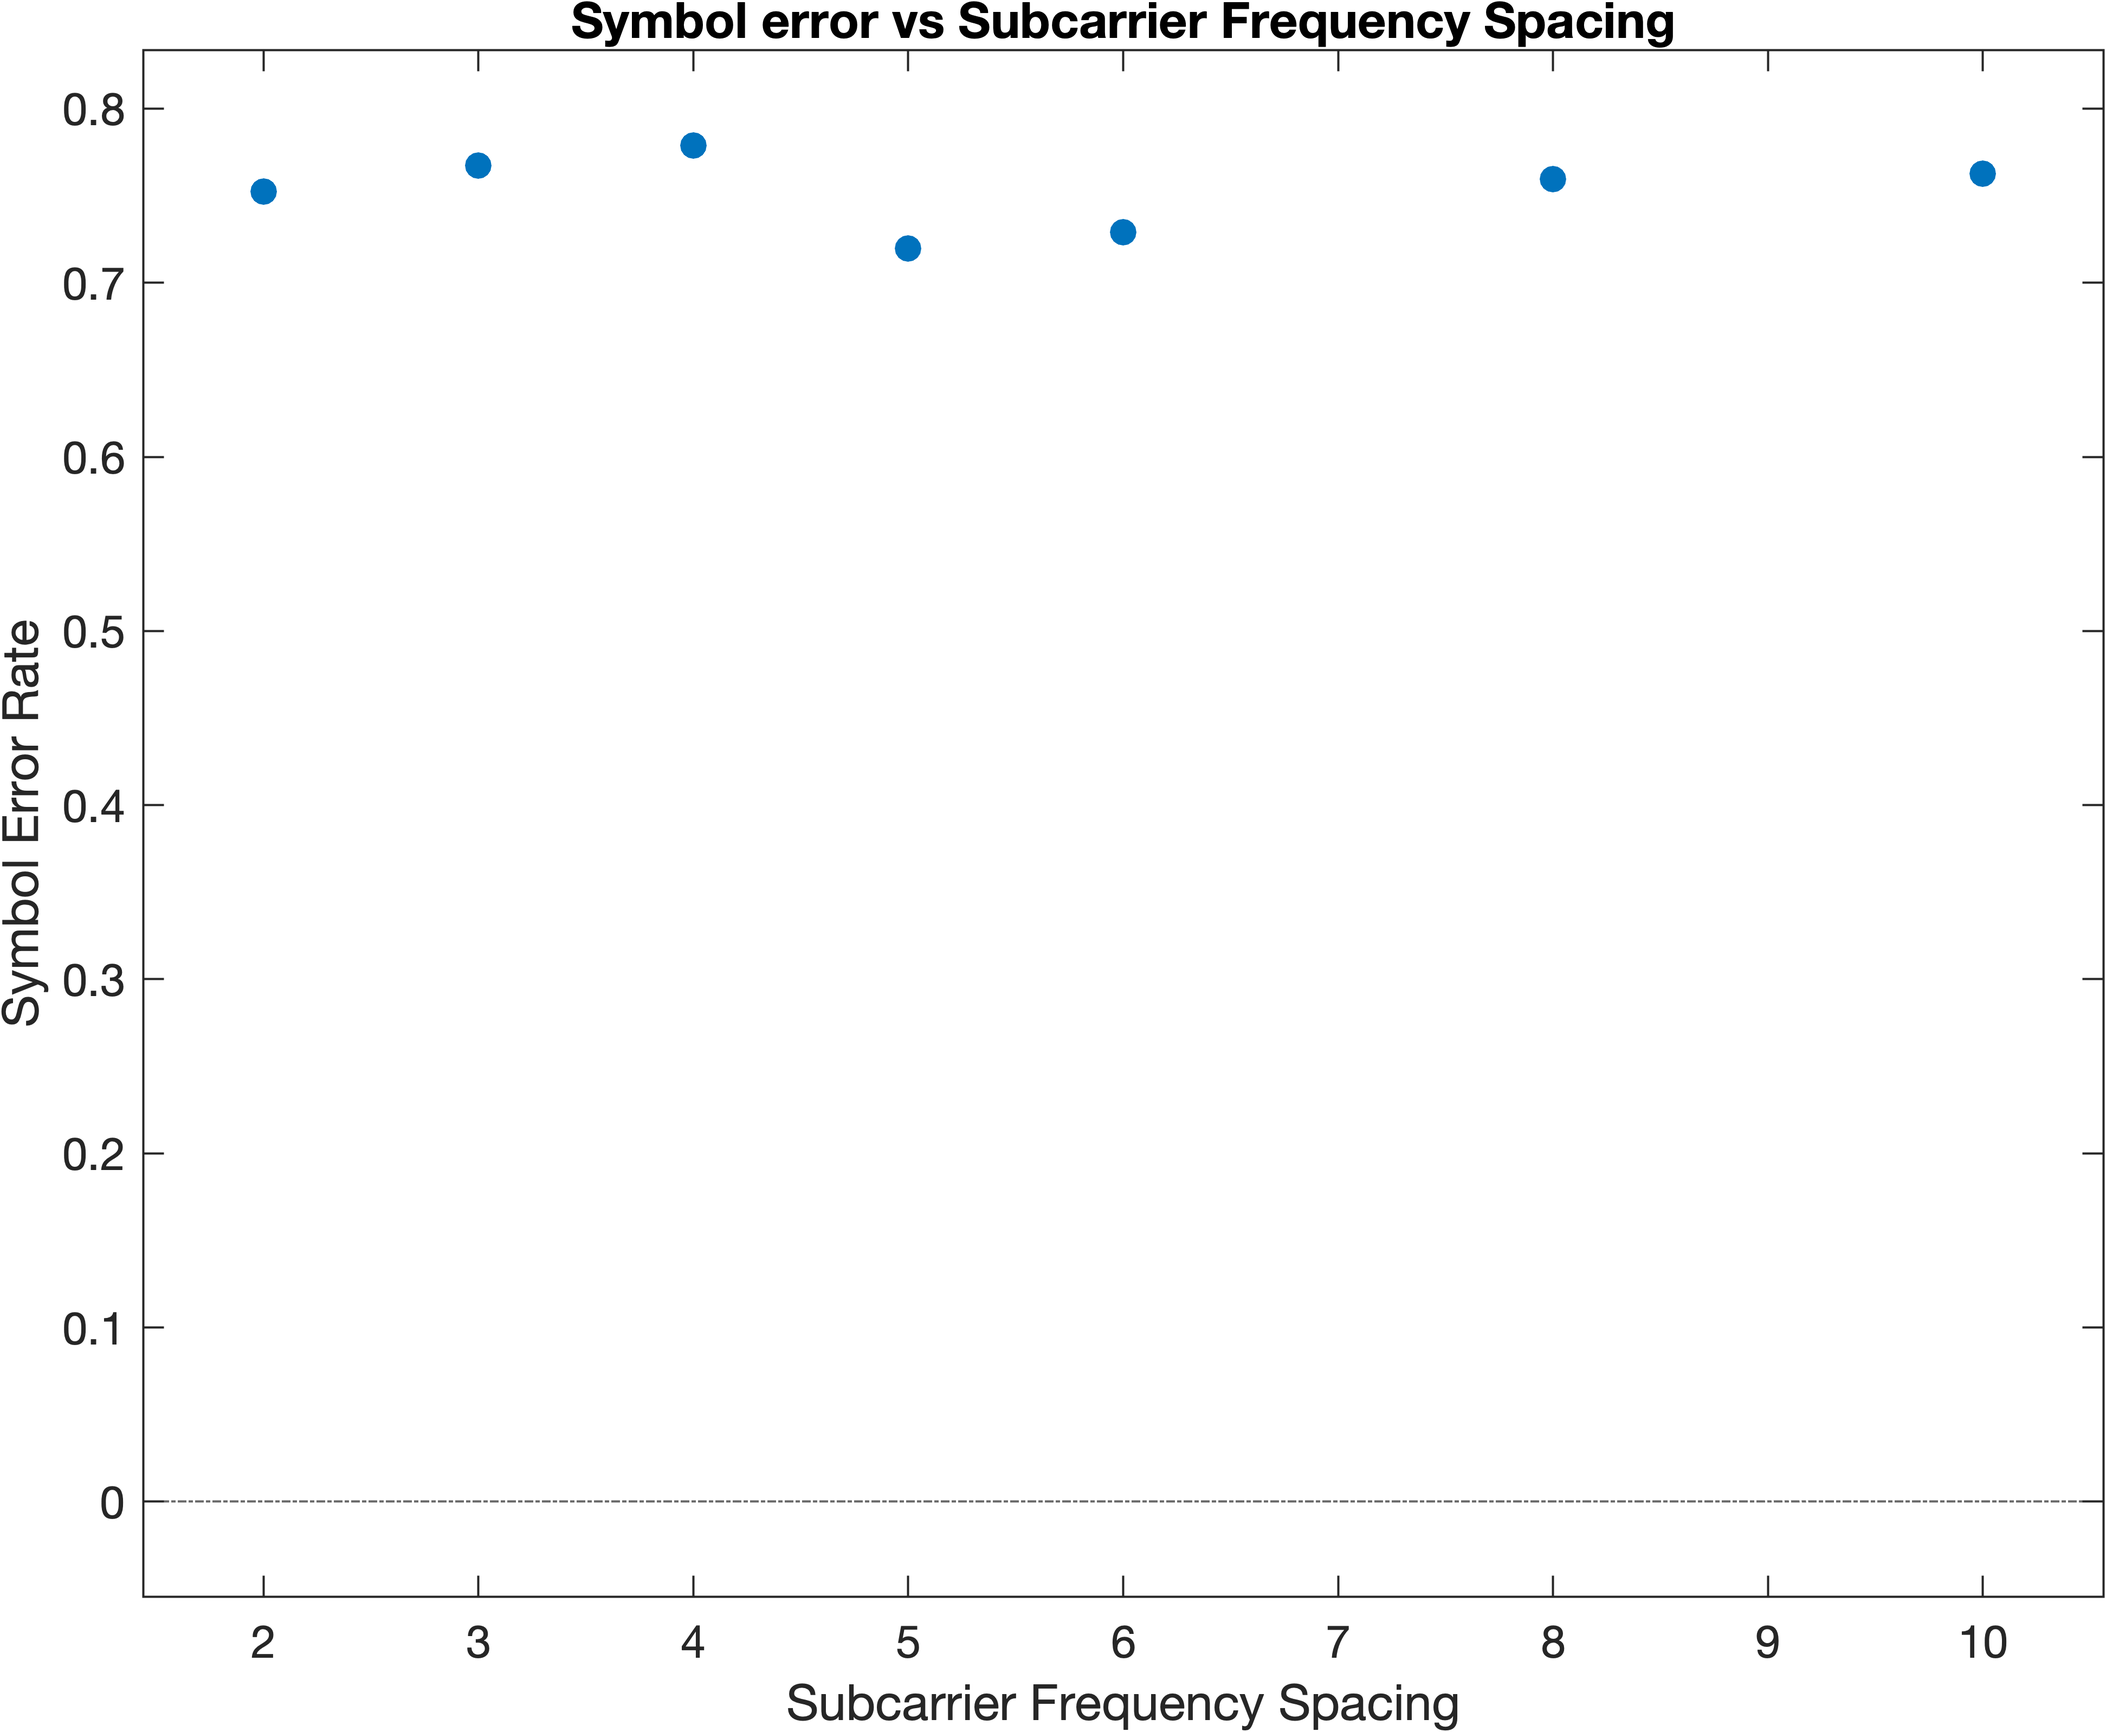
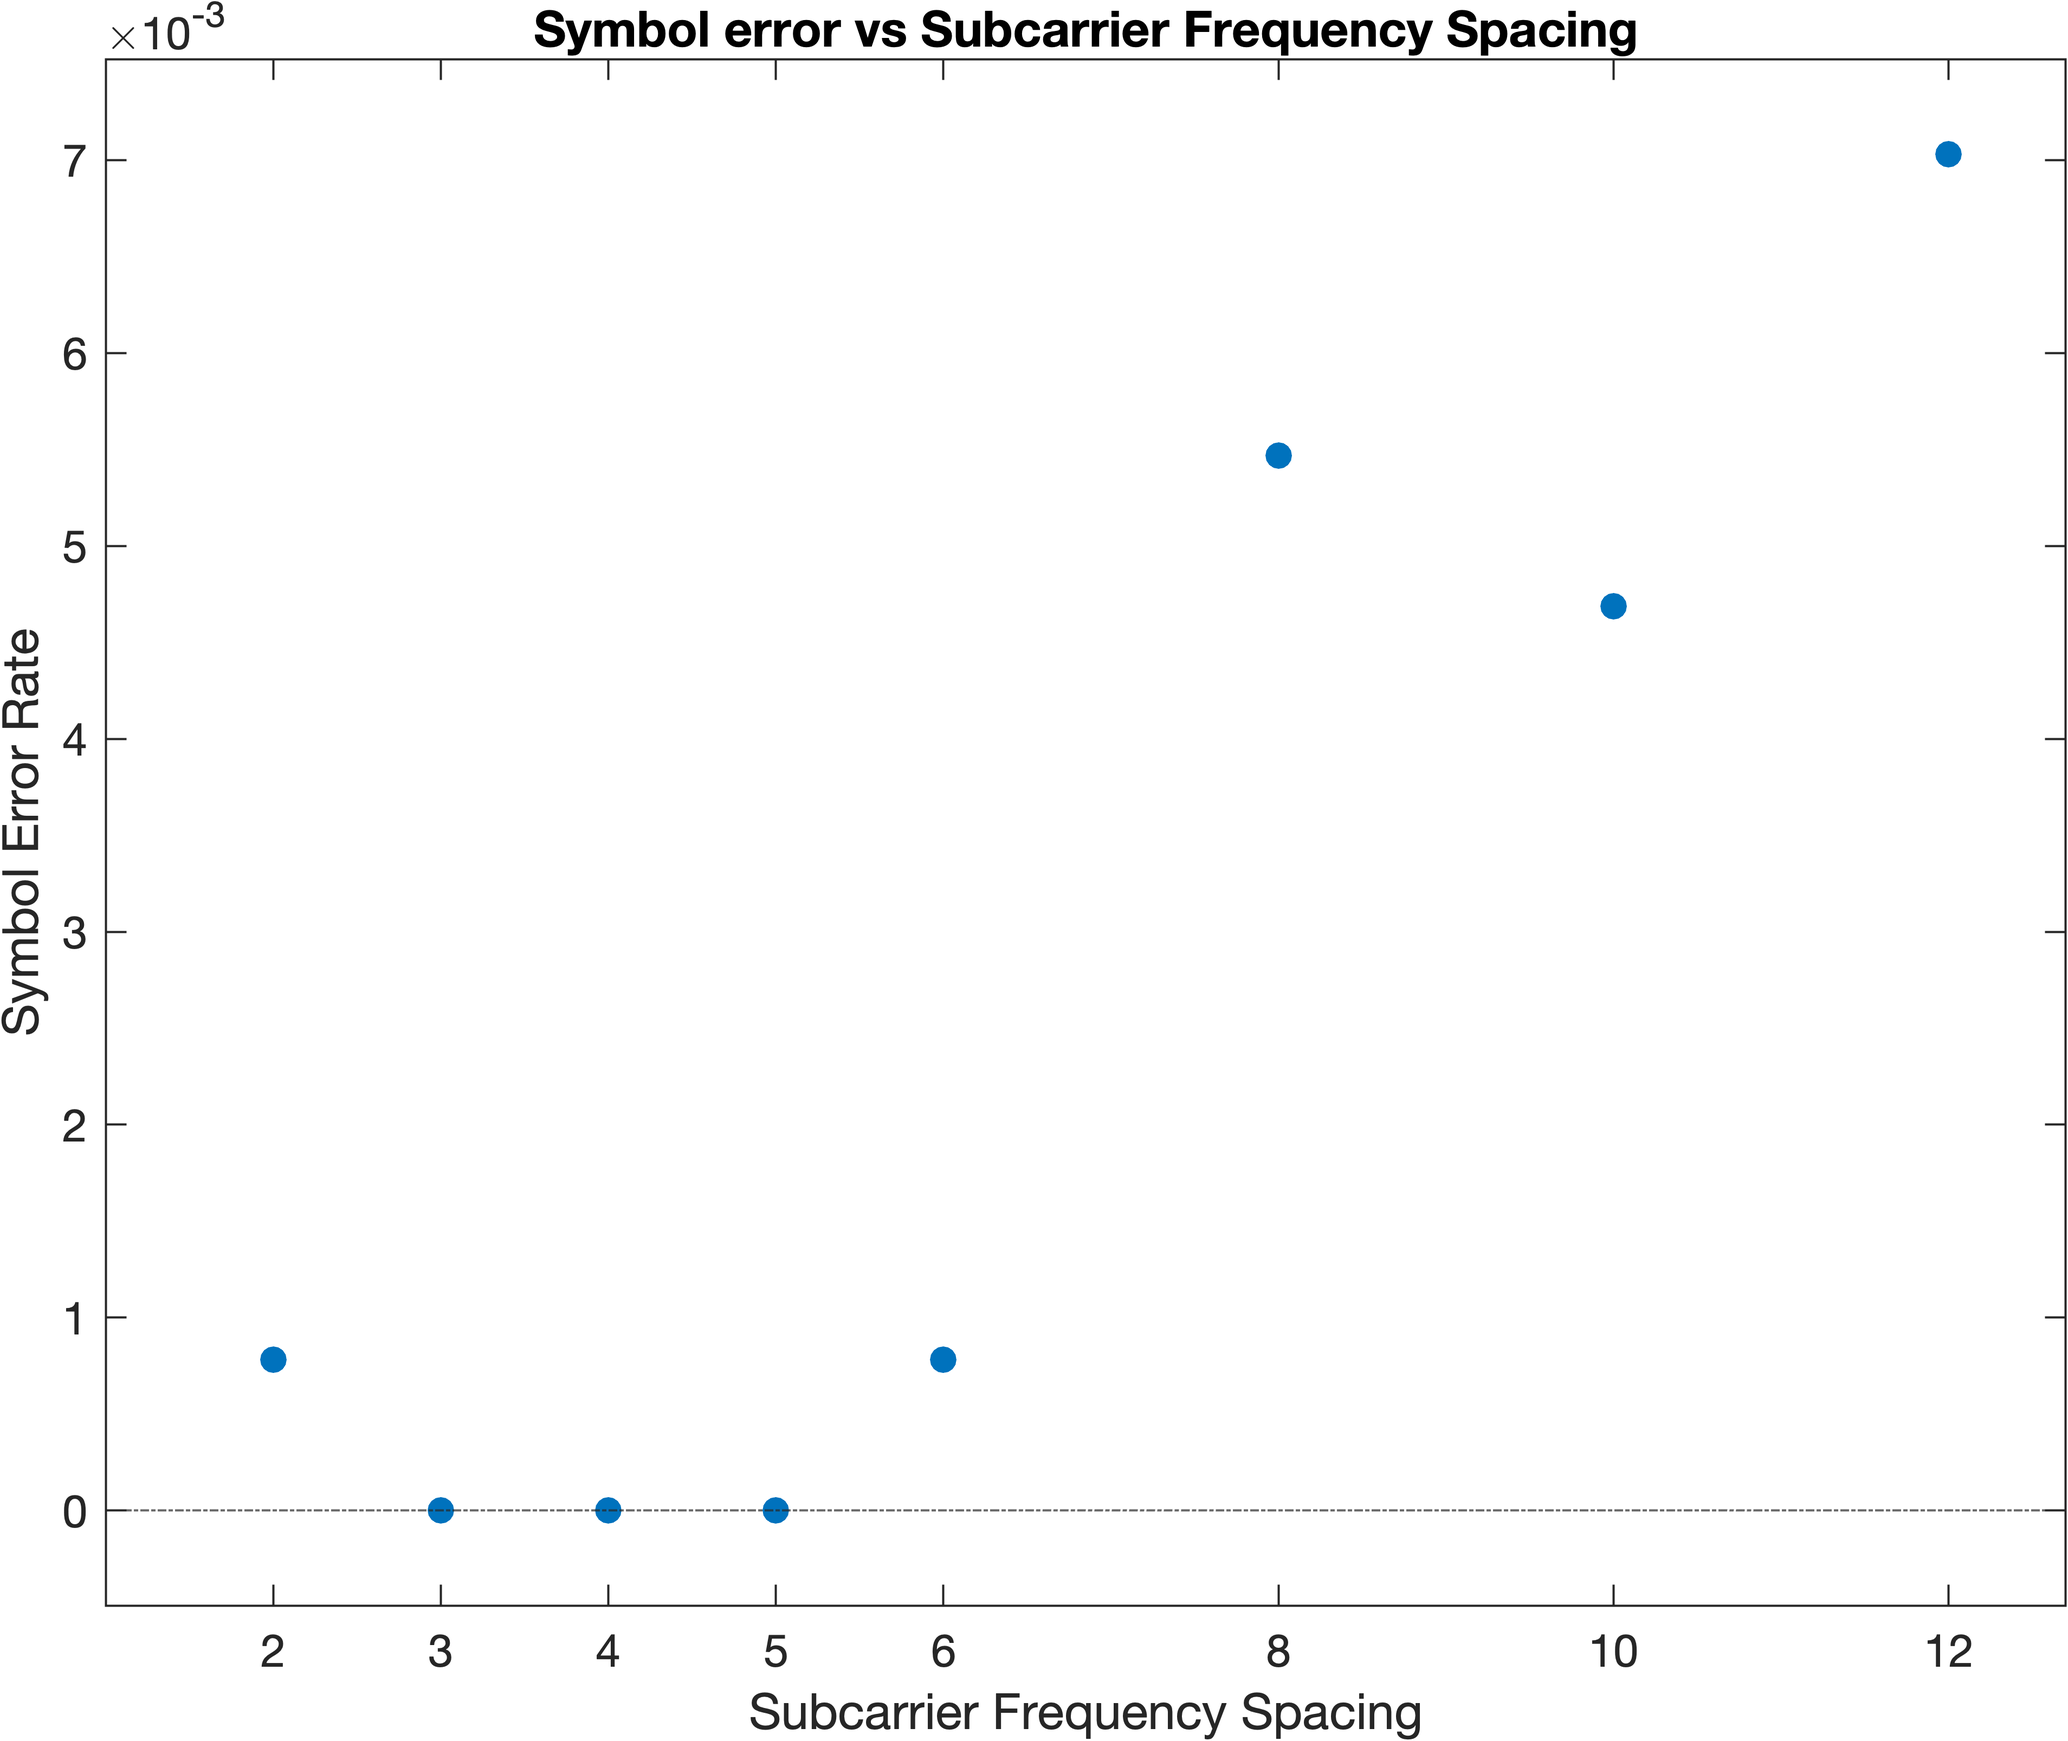
test okay

diff --git a/project_matlab/main.m b/project_matlab/main.m
@@ -47,7 +47,7 @@ SER_list = zeros(1, length(frequency_spacing_list));
 
 for x=1:length(frequency_spacing_list)
     
-    conf.frequency_spacing    = 5;%frequency_spacing_list(x);
+    conf.frequency_spacing    = frequency_spacing_list(x);%frequency_spacing_list(x);
     
     conf.preamble_len         = 100;
     
@@ -156,21 +156,7 @@ for x=1:length(frequency_spacing_list)
     
     SER_list(x) = sum(tx_qpsk_plot ~= rx_qpsk_plot)/length(tx_qpsk_plot);
     
-    
-    % %% Output the image
-    % if conf.data_type == "image"
-    %     % convert to uint8
-    %     rxbits_8bits = reshape(rxbits, [], 8);
-    %     gray_image_rx = bi2de(rxbits_8bits,"left-msb");
-    % 
-    %     % reshape into image format
-    %     gray_image_rx = reshape(gray_image_rx, conf.image_size);
-    % 
-    %     % displax image
-    %     figure()
-    %     imshow(gray_image_rx,[0 255]);
-    %     title(image_file)
-    % end
+
 
 
 end
@@ -182,7 +168,8 @@ xlabel("Subcarrier Frequency Spacing");
 ylabel("Symbol Error Rate");
 axis padded;
 yline(0, '-.');
+xticks(frequency_spacing_list)
 
 
 
-exportgraphics(gcf,'plots/SER_FreqSpacing.png','Resolution',600)
+exportgraphics(gcf,'plots/SER_FreqSpacing_test.png','Resolution',600)
